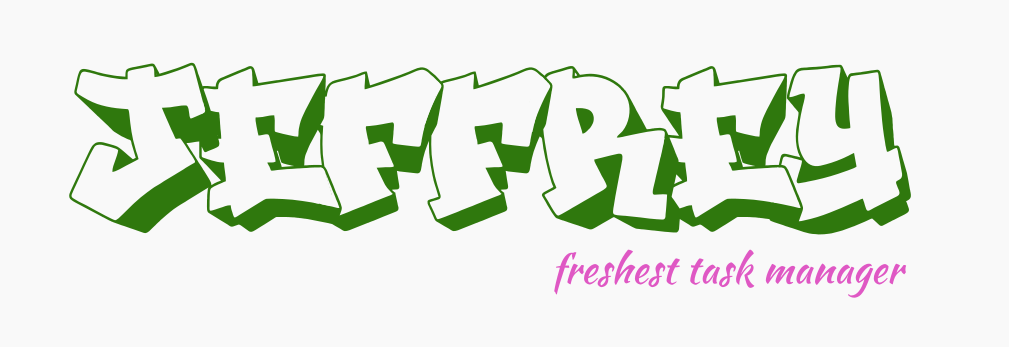
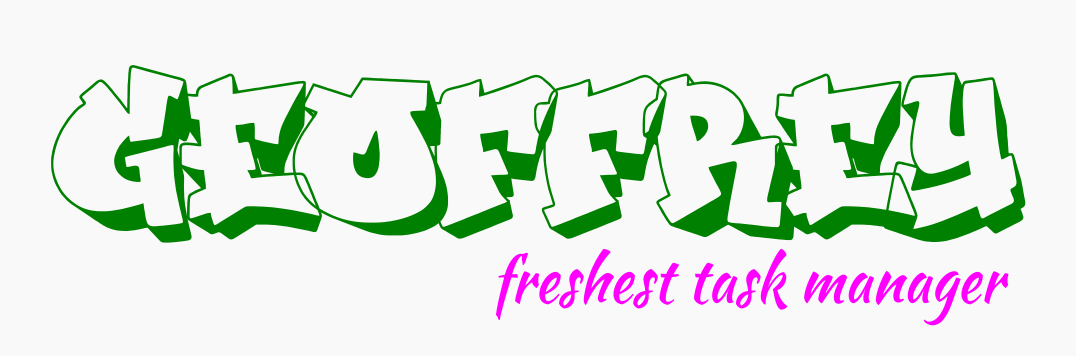
Add product screenshot

Changed region(s): [[0.0307, 0.1729, 0.9524, 0.9222], [0.7988, 0.1729, 0.8295, 0.2017]]

diff --git a/src/main/java/duke/command/Parser.java b/src/main/java/duke/command/Parser.java
@@ -47,8 +47,7 @@ public class Parser {
             String by = fullCommand.substring(5).trim();
             return new SortCommand(by);
         } else {
-            throw new DukeException("I'm terribly sorry, but I don't know what that means." +
-                    " You see, I don't do small talk very often.");
+            throw new DukeException("I'm terribly sorry, but I don't know what that means.");
         }
     }
 }

diff --git a/src/main/java/seedu/duke/Duke.java b/src/main/java/seedu/duke/Duke.java
@@ -91,7 +91,7 @@ public class Duke extends Application {
         stage.show();
 
         //Step 2. Formatting the window to look as expected
-        stage.setTitle("Jeffrey - Freshest Task Manager");
+        stage.setTitle("Geoffrey - Freshest Task Manager");
         stage.setResizable(false);
         stage.setMinHeight(600.0);
         stage.setMinWidth(400.0);
